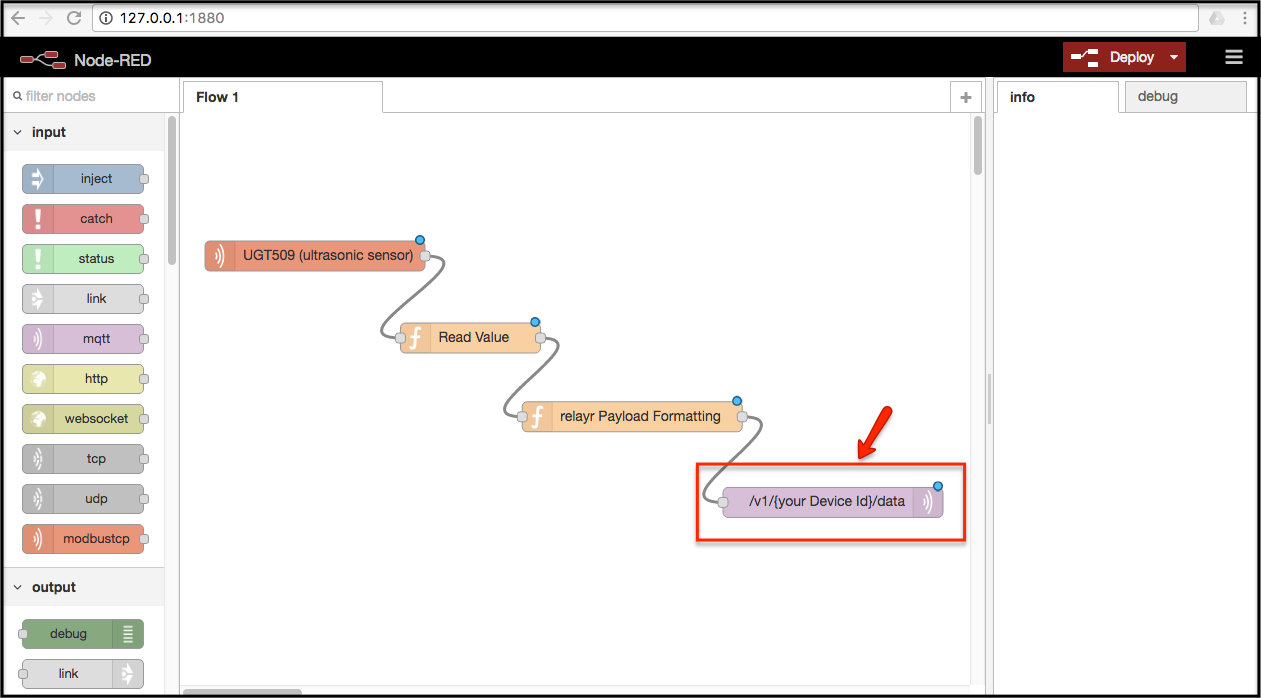
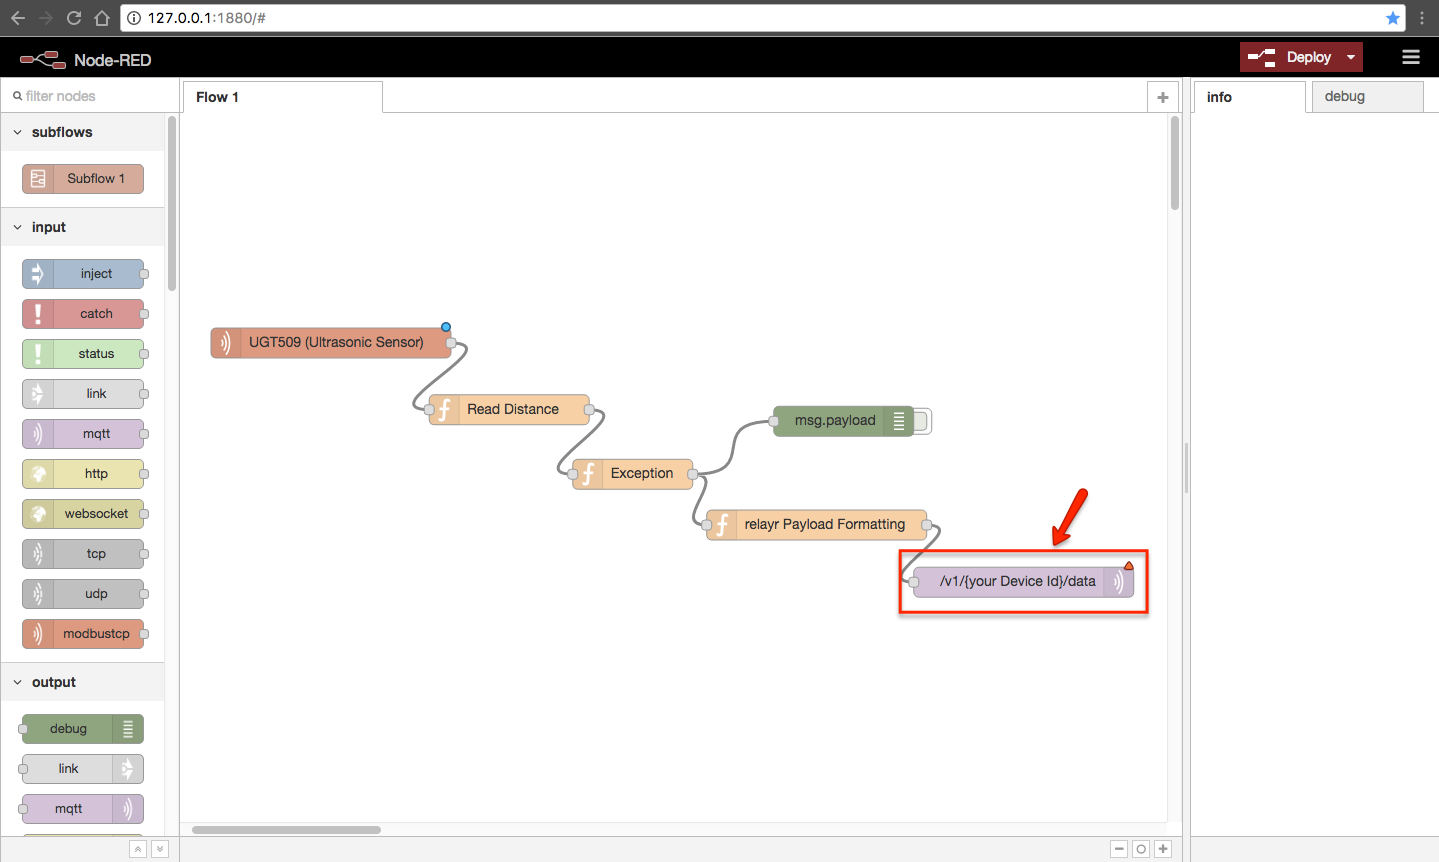
improved readme, added flow for all sensors, updated screenshots

Changed region(s): [[0.0, 0.0, 1.0, 1.0]]

diff --git a/README.md b/README.md
@@ -205,7 +205,7 @@ This means that Node-RED is running locally, and we can start adding our flows. 
 
 ### Importing Flows
 
-Now we will add our first flow, which will help us read data from the UGT509 (ultrasonic sensor). In Node-RED, the flows can be **imported** (and exported) using JSON format. For the sake of simplicity, the flows needed to implement this example are available in this repository, and ready to use. Navigate to the [flows folder](./node-red_flows) and copy the first flow: `UGT509_ultrasonic_sensor.json`.
+Now we will add our first flow, which will help us read data from the UGT509 (ultrasonic sensor). In Node-RED, the flows can be **imported** (and exported) using JSON format. For the sake of simplicity, the flows needed to implement this example are available in this repository, and ready to use. Navigate to the [flows folder](./node-red_flows) and copy the following flow: `UGT509_ultrasonic_sensor.json`.
 
 In Node-RED, click on the button in the top right corner and select `Import` → `Clipboard`, as shown below:
 
@@ -216,6 +216,8 @@ On the next window, paste the raw content of the file `UGT509_ultrasonic_sensor.
 As a result, the workspace should look like this:
 
 ![Flow imported](./assets/node-red_imported_flow.png)
+
+Note the `Exception` node pictured above. The ultrasound sensor will be saturated if the readings are out of range, providing a maximum value by default. This node acts as a very simple filter, making sure that only valid readings are sent to the relayr Cloud. Such exception is only necessary for this particular sensor, and it's not included in the flows for the other two sensors.
 
 ### Parameters
 
@@ -251,16 +253,21 @@ In this window, we can enter our MQTT username and password. **For the sake of s
 
 Once ready, click on **"Update"** to save your changes and close this menu. On the next menu, click on **"Done."**
 
-We're almost there! Now simply **click on the prominent red button in the top right corner which reads "Deploy."** The flow will start reading data via Modbus from the sensor, create and format the payload, and aggregate it to the relayr Cloud via MQTT. To see the live values, just navigate to the Developer Dashboard.
+We're almost there! Now simply **click on the prominent red button in the top right corner which reads "Deploy."** The flow will start reading data via Modbus from the sensor, create and format the payload, and aggregate it to the relayr Cloud via MQTT. To see the live values, just navigate to the [Developer Dashboard](https://dev.relayr.io), and select the device added previously (AY1020 IO-Link Master).
 
 **NOTE:** If you are using a Vertex-enabled gateway, click on the "Connection" tab when configuring the MQTT credentials. In the field labeled "Server," you must enter the IP address of your Vertex gateway instead of the main broker address of the relayr Cloud (i.e. `mqtt.relayr.io`). For more information, please refer to step 8 of the section ["Configuration & Onboarding"](https://github.com/relayr/vertex/blob/master/docs/vertex_DSK_readme.md#configuration--onboarding) as described in the Vertex documentation.
+
+### Importing Flows for All Sensors at Once
+
+The previous example shows how to deploy and configure the flow of one of the IO-Link sensors, in this case the ultrasonic sensor, using the `UGT509_ultrasonic_sensor.json`.
+
+However, for convenience, **it's also possible to import flows to get readings from the three sensors at the same time**. For that, simply use the file `all_sensors.json` instead, which can be found in the [flows folder](./node-red_flows) as well.
 
 ## TO DO
 
 * Add introduction about Modbus.
 * Add flows for the other two sensors.
-* Add a flow that combines all sensors in one.
-* Improve the flow of the UGT509 (ultrasonic sensor), so it filters the data triggering a flag when the readings are out of range.
+* Improve the flow of the UGT509 (ultrasonic sensor), so it sets a flag when the readings are out of range.
 * Optional: Add a quick testing procedure using the app "Modbus Probe."
 
 ## License
